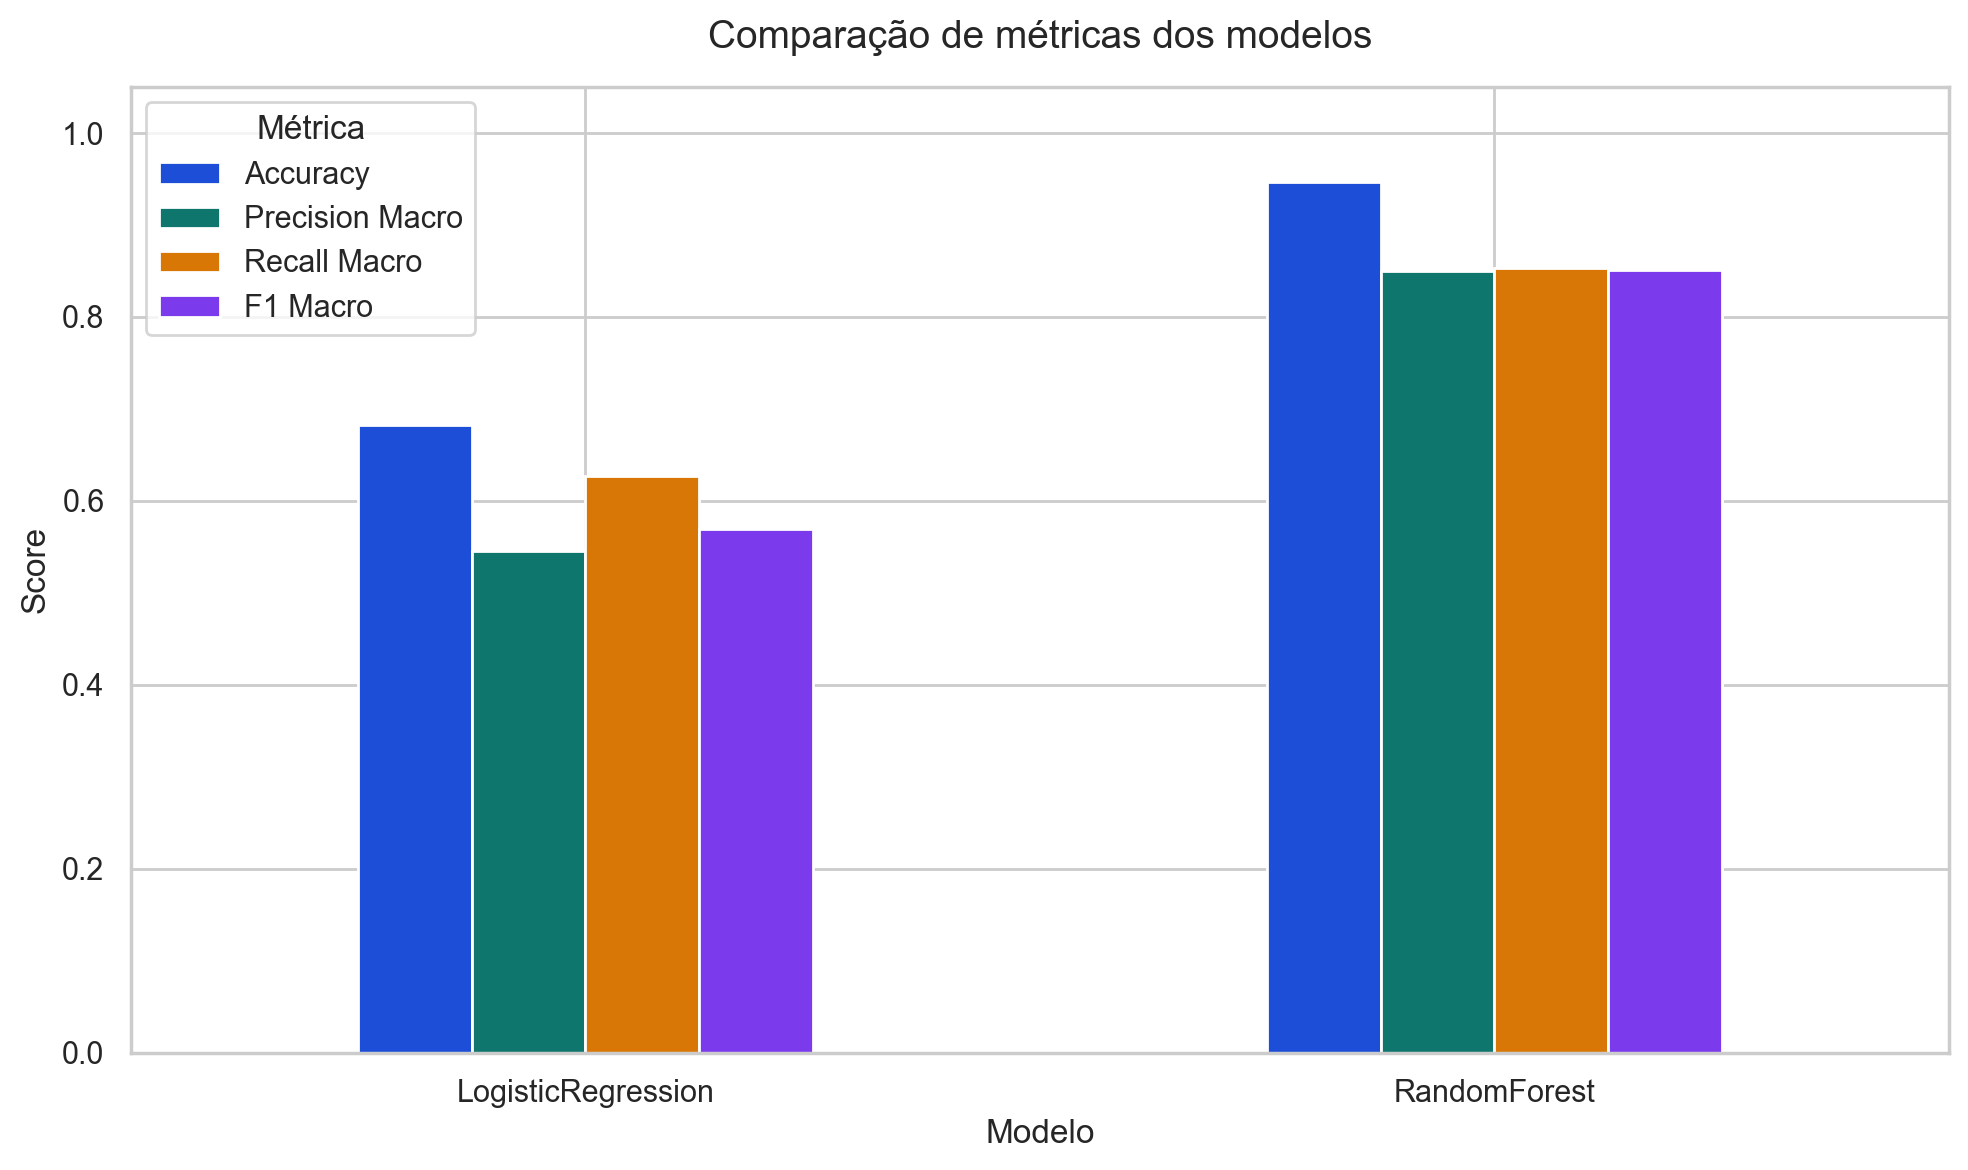
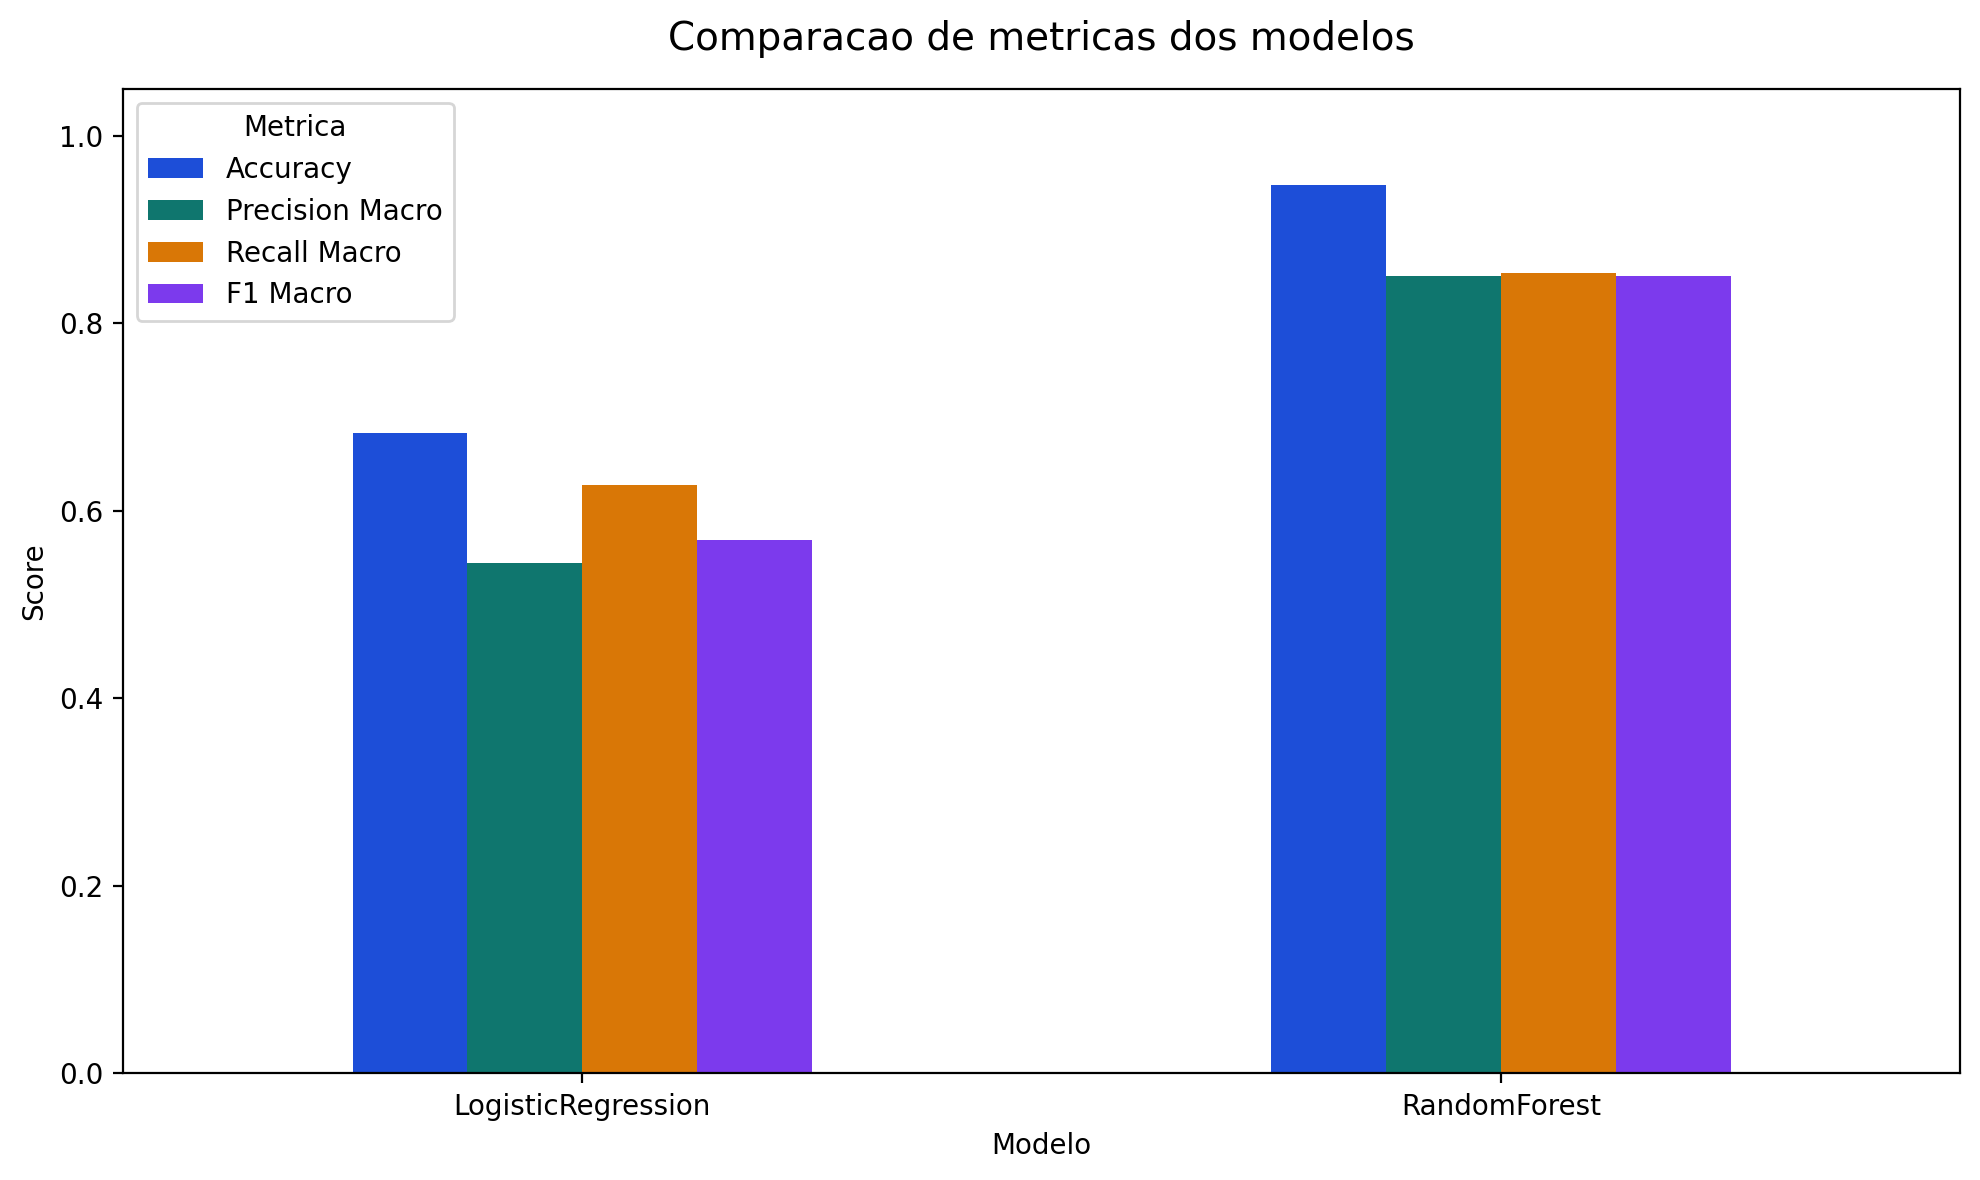
docs: atualiza orientacoes e relatorio do treinamento

diff --git a/reports/model_report.html b/reports/model_report.html
@@ -3,7 +3,7 @@
 <head>
   <meta charset="utf-8" />
   <meta name="viewport" content="width=device-width, initial-scale=1" />
-  <title>Relatório de Treinamento de Modelos</title>
+  <title>Relatorio de Treinamento de Modelos</title>
   <style>
     :root {
       --bg: #f4f6f8;
@@ -288,11 +288,11 @@
 <body>
   <main class="page">
     <header class="hero">
-      <h1>Relatório de Treinamento de Modelos</h1>
-      <p class="hero-subtitle">Comparação entre modelos de classificação treinados sobre os dados processados.</p>
+      <h1>Relatorio de Treinamento de Modelos</h1>
+      <p class="hero-subtitle">Comparacao entre modelos de classificacao treinados sobre os dados processados.</p>
     </header>
     <div class="content">
-      <section><h2>Visão geral</h2><div class="report-block"><div class="metrics-grid"><div class="metric-card"><strong>Shape do treino</strong><span>(16000, 15)</span></div><div class="metric-card"><strong>Shape do teste</strong><span>(4000, 15)</span></div><div class="metric-card"><strong>Coluna alvo</strong><span>Graduacao_Indicada</span></div><div class="metric-card"><strong>Modelos avaliados</strong><span>LogisticRegression e RandomForest</span></div></div></div></section><section><h2>Comparação de métricas</h2><div class="report-block"><div class="table-wrap"><table class="dataframe report-table">
+      <section><h2>Visao geral</h2><div class="report-block"><div class="metrics-grid"><div class="metric-card"><strong>Shape do treino</strong><span>(16000, 15)</span></div><div class="metric-card"><strong>Shape do teste</strong><span>(4000, 15)</span></div><div class="metric-card"><strong>Coluna alvo</strong><span>Graduacao_Indicada</span></div><div class="metric-card"><strong>Modelos avaliados</strong><span>LogisticRegression e RandomForest</span></div><div class="metric-card"><strong>Config atual</strong><span>logreg_c=1.0, logreg_max_iter=2000, rf_n_estimators=300, rf_max_depth=None</span></div></div></div></section><section><h2>Comparacao de metricas</h2><div class="report-block"><div class="table-wrap"><table class="dataframe report-table">
   <thead>
     <tr style="text-align: right;">
       <th>Modelo</th>
@@ -318,7 +318,7 @@
       <td>0.8506</td>
     </tr>
   </tbody>
-</table></div></div><div class="report-block"><figure class="report-figure"><img src="figures/model_metrics_comparison.png" alt="Comparação de métricas dos modelos" /><figcaption>Comparação visual entre Accuracy, Precision Macro, Recall Macro e F1 Macro.</figcaption></figure></div></section><section><h2>Melhor modelo</h2><div class="report-block"><p>O melhor modelo foi <code>RandomForest</code>.</p><p>A escolha foi feita priorizando o <code>F1 macro</code>, porque a variável alvo é desbalanceada e essa métrica representa melhor o desempenho médio entre todas as classes. Em caso de empate, a <code>accuracy</code> foi usada como critério de desempate.</p><p>O modelo selecionado obteve F1 macro de <code>0.8506</code> e accuracy de <code>0.9470</code>.</p></div></section><section><h2>Classification report do melhor modelo</h2><div class="report-block"><pre>                            precision    recall  f1-score   support
+</table></div></div><div class="report-block"><figure class="report-figure"><img src="figures/model_metrics_comparison.png" alt="Comparacao de metricas dos modelos" /><figcaption>Comparacao visual entre Accuracy, Precision Macro, Recall Macro e F1 Macro.</figcaption></figure></div></section><section><h2>Melhor modelo</h2><div class="report-block"><p>O melhor modelo foi <code>RandomForest</code>.</p><p>A escolha foi feita priorizando o <code>F1 macro</code>, porque a variavel alvo e desbalanceada e essa metrica representa melhor o desempenho medio entre todas as classes. Em caso de empate, a <code>accuracy</code> foi usada como criterio de desempate.</p><p>O modelo selecionado obteve F1 macro de <code>0.8506</code> e accuracy de <code>0.9470</code>.</p></div></section><section><h2>Tracking de experimentos</h2><div class="report-block"><p>O experimento foi registrado no MLflow com o nome <code>graduacao-indicada-classificacao</code>.</p><p>O backend local de tracking foi salvo em <code>mlruns</code> e o run inclui parametros dos modelos, metricas de teste, o relatorio HTML e o artefato do melhor modelo.</p></div></section><section><h2>Classification report do melhor modelo</h2><div class="report-block"><pre>                            precision    recall  f1-score   support
 
              Administração       0.98      0.99      0.99       924
      Ciência da Computação       0.91      0.89      0.90       151

diff --git a/README.md b/README.md
@@ -43,6 +43,7 @@ Esse comando executa em sequência:
 - EDA
 - preparação de dados
 - treinamento de modelos
+- registro de experimentos no MLflow local
 
 Parâmetros disponíveis:
 
@@ -52,6 +53,12 @@ Parâmetros disponíveis:
 - `--artifacts`: diretório dos artefatos
 - `--test-size`: proporção do conjunto de teste
 - `--random-state`: seed fixa para reprodutibilidade
+- `--tracking-dir`: diretório local dos runs do MLflow
+- `--experiment-name`: nome do experimento no MLflow
+- `--logreg-c`: regularização da LogisticRegression
+- `--logreg-max-iter`: iterações máximas da LogisticRegression
+- `--rf-n-estimators`: quantidade de árvores da RandomForest
+- `--rf-max-depth`: profundidade máxima da RandomForest
 
 ## Como rodar a análise exploratória
 
@@ -120,6 +127,7 @@ Esse comando:
 - compara os resultados e escolhe o melhor modelo
 - salva o melhor artefato em `artifacts/model.joblib`
 - gera o relatório em `reports/model_report.html`
+- registra parâmetros, métricas e artefatos em `mlruns/`
 
 Parâmetros disponíveis:
 
@@ -127,6 +135,39 @@ Parâmetros disponíveis:
 - `--artifacts`: pasta onde o melhor modelo será salvo
 - `--reports`: pasta onde o relatório será salvo
 - `--random-state`: seed fixa para reprodutibilidade
+- `--tracking-dir`: diretório local dos runs do MLflow
+- `--experiment-name`: nome do experimento no MLflow
+- `--logreg-c`: regularização da LogisticRegression
+- `--logreg-max-iter`: iterações máximas da LogisticRegression
+- `--rf-n-estimators`: quantidade de árvores da RandomForest
+- `--rf-max-depth`: profundidade máxima da RandomForest
+
+Exemplo de run alternativo para comparação no MLflow:
+
+```bash
+python -B -m src.train --logreg-c 0.5 --logreg-max-iter 3000 --rf-n-estimators 500 --rf-max-depth 18
+```
+
+## Como visualizar os experimentos no MLflow
+
+Depois de rodar o treinamento, execute:
+
+```bash
+mlflow ui --backend-store-uri mlruns
+```
+
+Em seguida, abra no navegador:
+
+```text
+http://127.0.0.1:5000
+```
+
+No UI voce deve encontrar:
+
+- um run novo para cada execucao de treino
+- parametros dos modelos avaliados
+- metricas de teste
+- artefatos do melhor modelo e do relatorio HTML
 
 ## Saídas geradas
 
@@ -150,6 +191,7 @@ Após rodar o treinamento:
 
 - `reports/model_report.html`
 - `artifacts/model.joblib`
+- `mlruns/`
 
 ## Documentação das etapas
 
@@ -200,12 +242,13 @@ Os scripts usam as bibliotecas:
 - `seaborn`
 - `scikit-learn`
 - `joblib`
+- `mlflow`
 - `pyarrow`
 
 Se necessário, instale com:
 
 ```bash
-pip install pandas numpy matplotlib seaborn scikit-learn joblib pyarrow
+pip install pandas numpy matplotlib seaborn scikit-learn joblib mlflow pyarrow
 ```
 
 ## Observação
